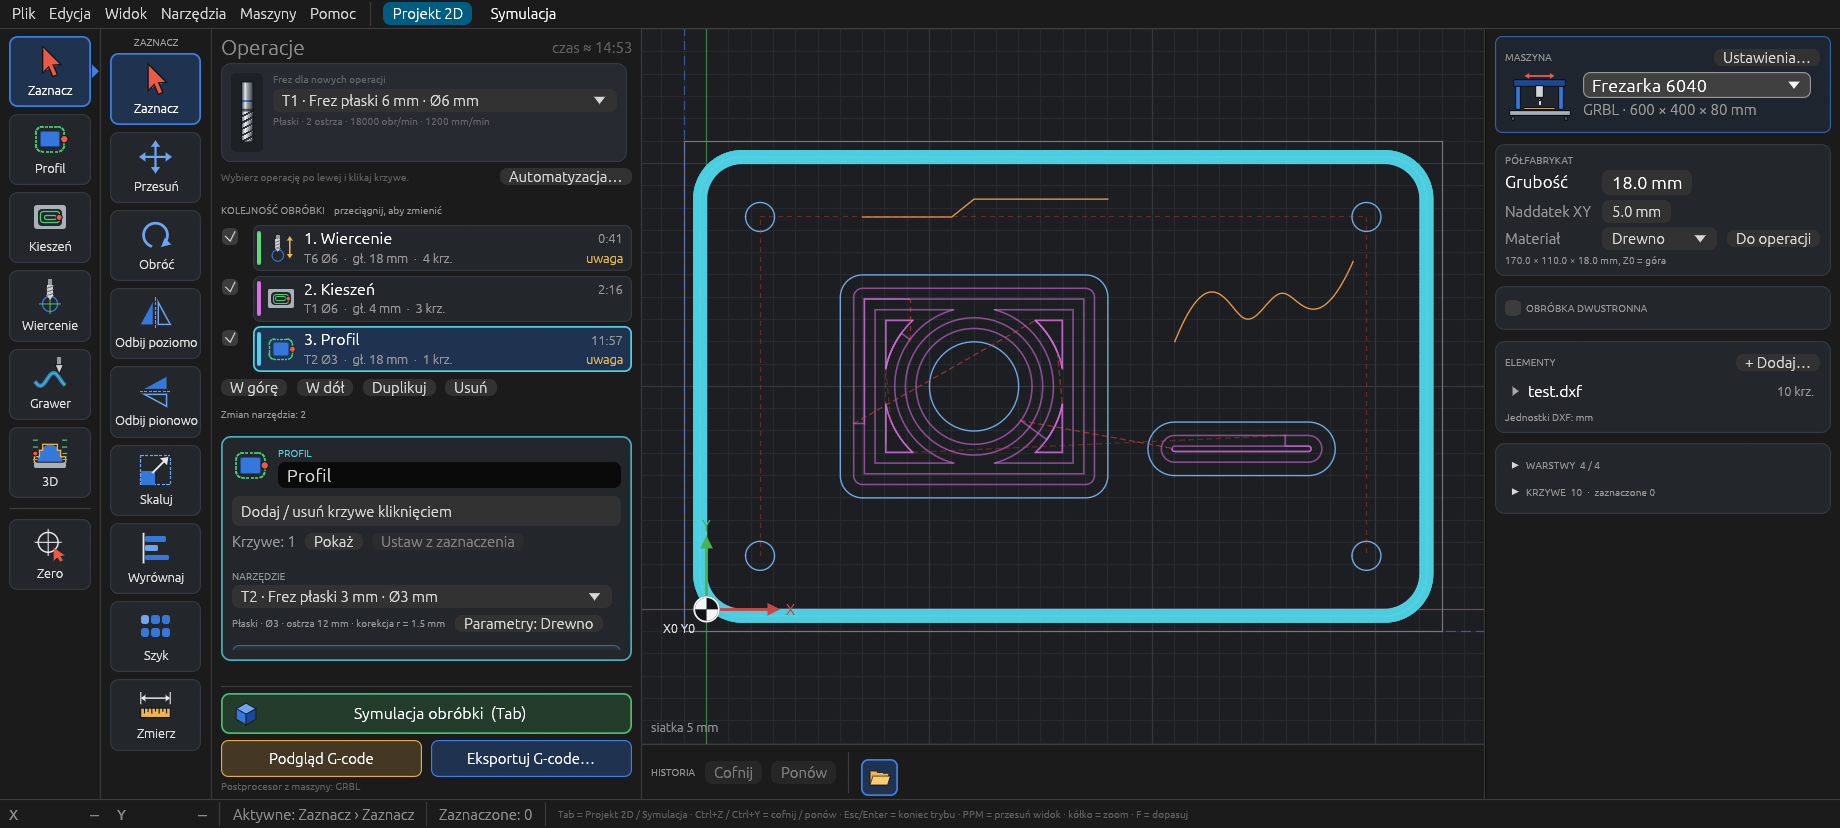
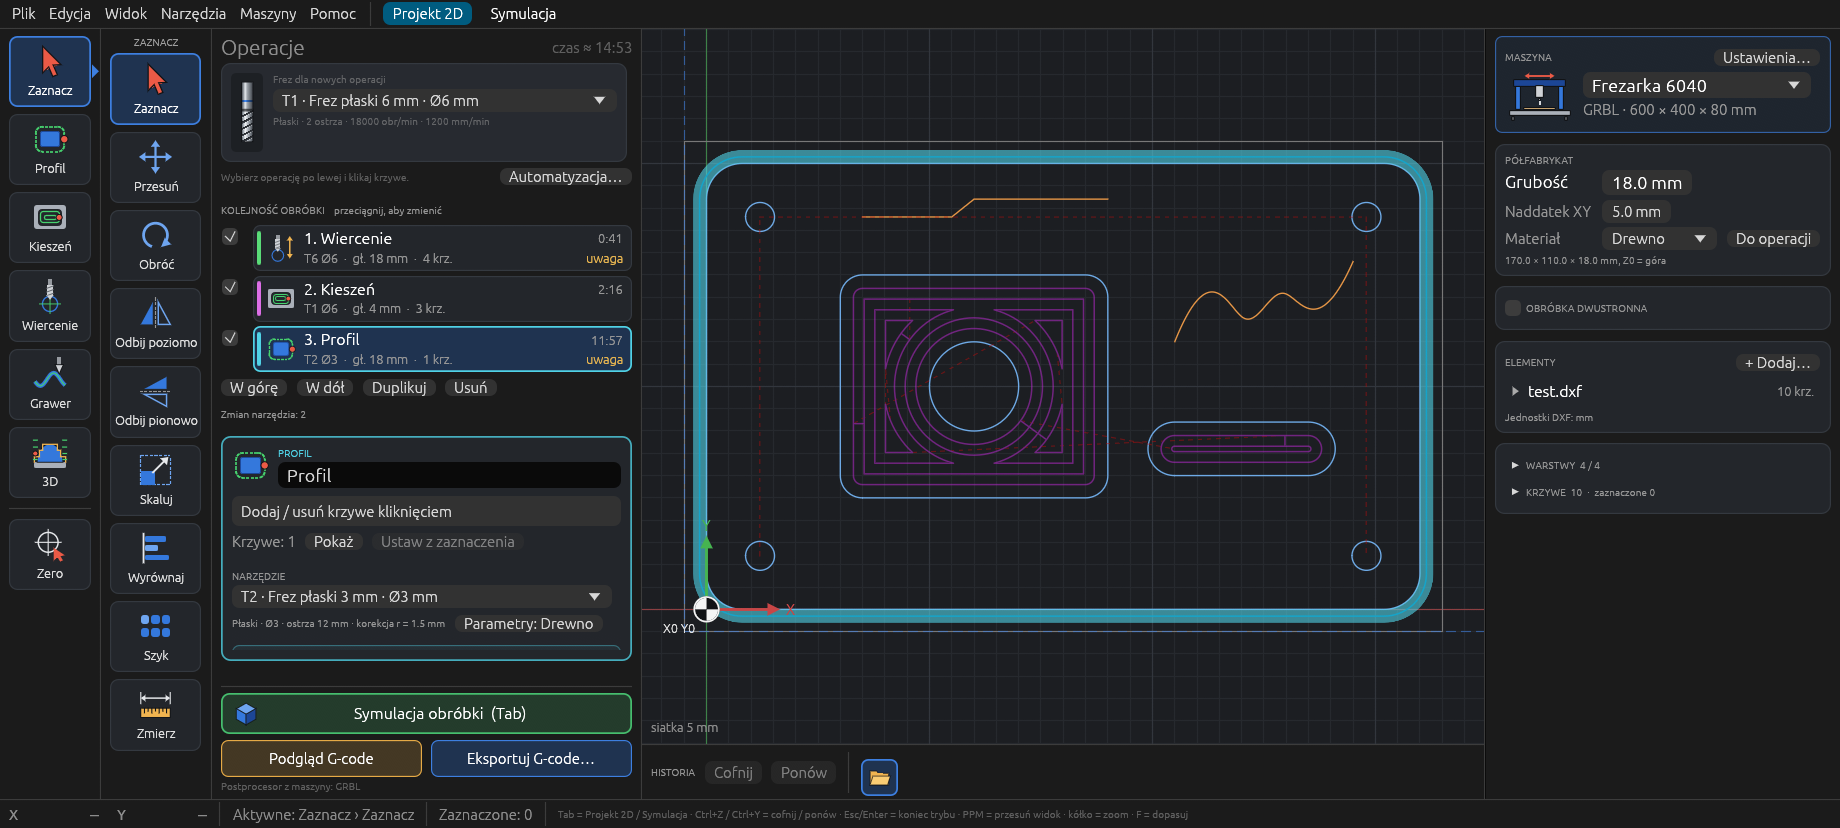
Release 0.8.0

Changed region(s): [[0.3717, 0.1812, 0.8054, 0.7548], [0.4647, 0.3321, 0.7125, 0.5737], [0.9603, 0.0906, 0.9913, 0.1208]]

diff --git a/README_pl.md b/README_pl.md
@@ -3,7 +3,7 @@
 **English:** [README.md](README.md) · **Zmiany:** [CHANGELOG.md](CHANGELOG.md) · **Dla programistów:** [DEVELOPMENT.md](DEVELOPMENT.md)
 
 > **Wczesny etap rozwoju — jeszcze nie do użytku.** Millwise jest na bardzo
-> wczesnym etapie (wersja 0.7.1). Zmienia się codziennie, a tworzony G-code
+> wczesnym etapie (wersja 0.8.0). Zmienia się codziennie, a tworzony G-code
 > nie był testowany na prawdziwych maszynach. **Na razie nie zalecamy używania
 > go do sterowania frezarką.** Pierwszą wersję testową dla Linuksa można
 > pobrać (niżej). Uwagi i pomysły chętnie przyjmujemy w zgłoszeniach (Issues).
@@ -15,7 +15,7 @@ razie nie planujemy). Interfejs jest po polsku i po angielsku.
 
 ![Główne okno Millwise](docs/screenshot.png)
 
-## Co potrafi (0.7.1)
+## Co potrafi (0.8.0)
 
 - **Import DXF:** linie, łuki, okręgi, polilinie z łukami, splajny, elipsy i
   bloki; luźne elementy są łączone w kontury, cale przeliczane na milimetry.
@@ -97,8 +97,8 @@ Na stronie [Releases](https://github.com/cyryllo/millwise/releases) jest
 22.04 lub nowszym i innych dystrybucjach z tego okresu.
 
 ```sh
-chmod +x Millwise-0.7.1-x86_64.AppImage
-./Millwise-0.7.1-x86_64.AppImage
+chmod +x Millwise-0.8.0-x86_64.AppImage
+./Millwise-0.8.0-x86_64.AppImage
 ```
 
 Na kartach NVIDIA i wtedy, gdy domyślna grafika nie otwiera okna, Millwise sam

diff --git a/README.md b/README.md
@@ -3,7 +3,7 @@
 **Po polsku:** [README_pl.md](README_pl.md) · **Changes:** [CHANGELOG.md](CHANGELOG.md) · **For developers:** [DEVELOPMENT.md](DEVELOPMENT.md)
 
 > **Early development — not ready for use.** Millwise is at a very early stage
-> (version 0.7.1). It changes every day and the G-code it writes has not been
+> (version 0.8.0). It changes every day and the G-code it writes has not been
 > tested on real machines. **Please do not use it to run a CNC machine yet.**
 > A first test version for Linux can be downloaded (see below). Feedback and
 > ideas are welcome in the issues.
@@ -15,7 +15,7 @@ not planned for now). The user interface is in Polish and English.
 
 ![Millwise main window](docs/screenshot.png)
 
-## What it does (0.7.1)
+## What it does (0.8.0)
 
 - **DXF import:** lines, arcs, circles, polylines with arcs, splines,
   ellipses and blocks; loose pieces are joined into contours, inches are
@@ -98,8 +98,8 @@ The [Releases](https://github.com/cyryllo/millwise/releases) page has an
 Ubuntu 22.04 or newer and other distributions of that age.
 
 ```sh
-chmod +x Millwise-0.7.1-x86_64.AppImage
-./Millwise-0.7.1-x86_64.AppImage
+chmod +x Millwise-0.8.0-x86_64.AppImage
+./Millwise-0.8.0-x86_64.AppImage
 ```
 
 Millwise chooses OpenGL by itself on NVIDIA cards and when the default

diff --git a/docs/pl/guide.md b/docs/pl/guide.md
@@ -10,7 +10,7 @@ description: "Jak pracować w Millwise krok po kroku, z obrazkami — od otwarci
 # Instrukcja obsługi
 
 Ta instrukcja pokazuje, jak przejść od rysunku albo modelu 3D do G-code dla
-twojej maszyny. Opisuje Millwise 0.7. Program jest we wczesnej fazie rozwoju,
+twojej maszyny. Opisuje Millwise 0.8. Program jest we wczesnej fazie rozwoju,
 więc w nowszych wersjach niektóre szczegóły mogą wyglądać trochę inaczej.
 
 <div class="notice"><strong>Najpierw bezpieczeństwo.</strong> Millwise tworzy programy, które poruszają prawdziwą maszyną. Zawsze obejrzyj ścieżki w symulacji i przeczytaj G-code przed uruchomieniem, nowe programy puszczaj najpierw w powietrzu albo na odpadzie i nigdy nie zostawiaj pracującej maszyny bez nadzoru.</div>

diff --git a/docs/pl/index.md b/docs/pl/index.md
@@ -156,10 +156,11 @@ chmod +x Millwise-*-x86_64.AppImage
 
 ## Stan projektu
 
-**Millwise 0.7 to wczesna wersja testowa.** Robi już obróbkę 2D i 3D, ale
+**Millwise 0.8 to wczesna wersja testowa.** Robi już obróbkę 2D i 3D, ale
 zmienia się z dnia na dzień i nie była jeszcze dość testowana na prawdziwych
-maszynach. W planach: wykańczanie łączone (strome i
-płaskie), wykańczanie spiralne, grawer na powierzchniach 3D. Zobacz
+maszynach. W planach: grawer na powierzchniach 3D, ostrzeżenie o ocieraniu
+uchwytu narzędzia o materiał, przejście ołówkowe i ponowna zgrubna, nesting
+detali 2D na płycie. Zobacz
 [listę zmian]({{ site.repo }}/blob/main/CHANGELOG.md) i
 [plany]({{ site.repo }}/blob/main/TODO.md).
 

diff --git a/docs/index.md b/docs/index.md
@@ -156,10 +156,11 @@ chmod +x Millwise-*-x86_64.AppImage
 
 ## Status
 
-**Millwise 0.7 is an early test version.** It already does 2D and 3D
+**Millwise 0.8 is an early test version.** It already does 2D and 3D
 machining, but it changes every day and has not been tested enough on real
-machines. Planned next: combined steep and shallow
-finishing, spiral finishing, engraving on 3D surfaces. See the
+machines. Planned next: engraving on 3D surfaces, a warning when the tool
+holder would rub the material, pencil and rest roughing, nesting of 2D
+parts on the sheet. See the
 [changes]({{ site.repo }}/blob/main/CHANGELOG.md) and the
 [to-do list]({{ site.repo }}/blob/main/TODO.md) (in Polish).
 

diff --git a/docs/guide.md b/docs/guide.md
@@ -10,7 +10,7 @@ description: "How to use Millwise, step by step, with pictures: from opening a D
 # User guide
 
 This guide shows how to go from a drawing or a 3D model to G-code for your
-machine. It describes Millwise 0.7. The program is in early development, so
+machine. It describes Millwise 0.8. The program is in early development, so
 some details can look a little different in newer versions.
 
 <div class="notice"><strong>Safety first.</strong> Millwise writes programs that move a real machine. Always look at the toolpaths in the simulation and read the G-code before you run it, run new programs in the air or on scrap first, and never leave a running machine unattended.</div>

diff --git a/CHANGELOG.md b/CHANGELOG.md
@@ -6,7 +6,7 @@ Version numbers:
 - the **second number** goes up with every release that adds features;
 - the **third number** goes up for releases that only fix bugs.
 
-## Unreleased
+## 0.8.0 (2026-11-16)
 
 ### Added
 
